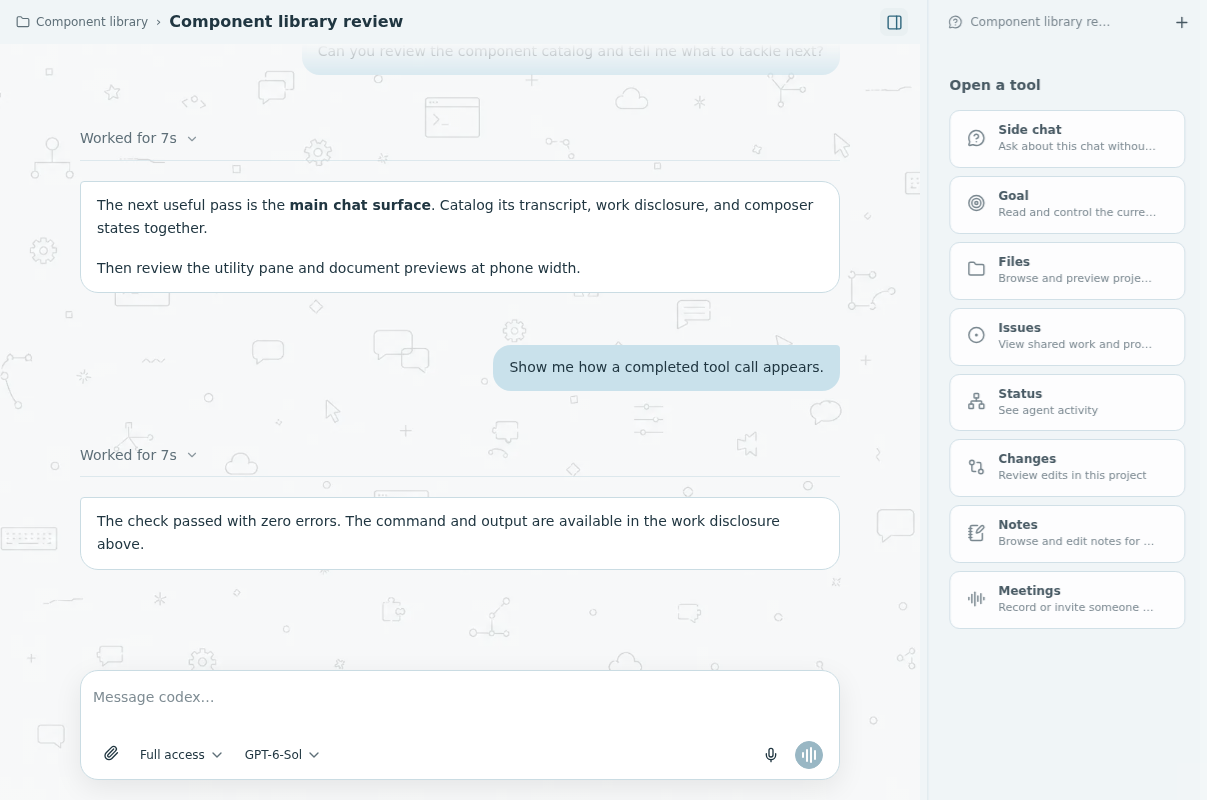
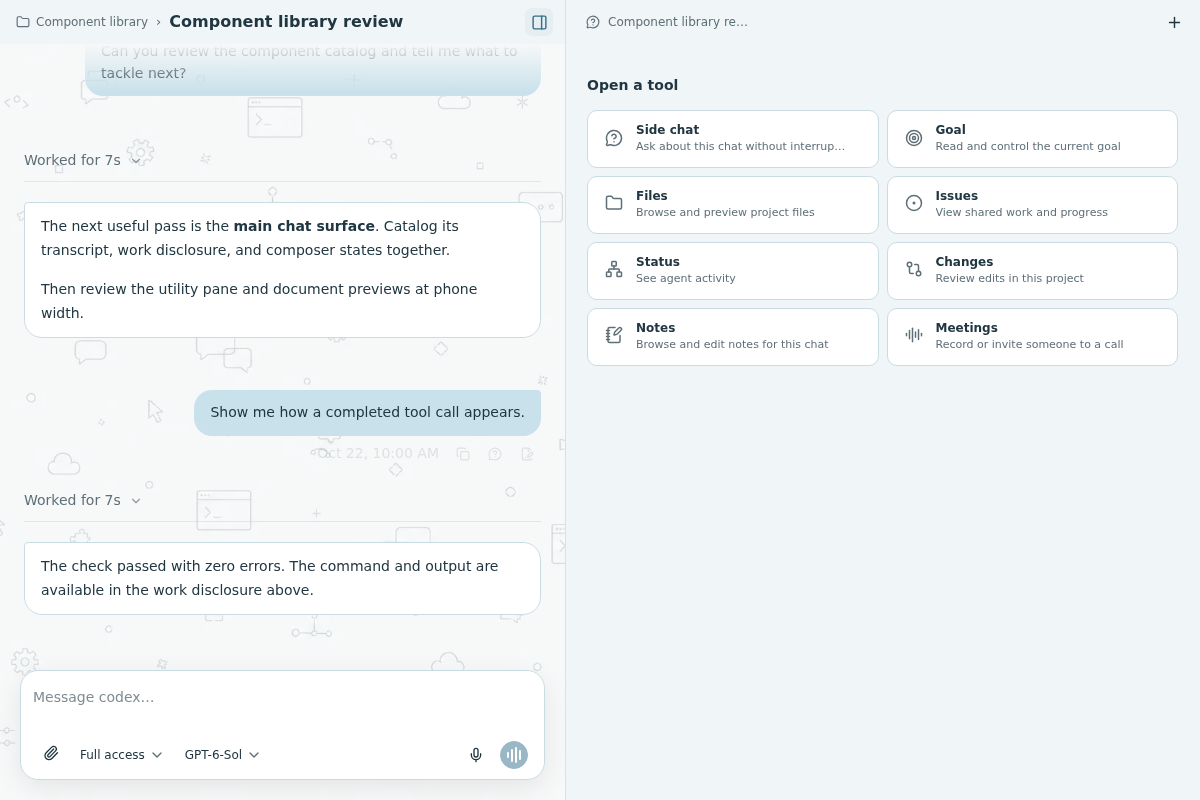
Make pane seams exactly one pixel wide

diff --git a/web/src/ui/pane-divider.stories.ts b/web/src/ui/pane-divider.stories.ts
@@ -8,20 +8,20 @@ const meta = {
   parameters: { layout: 'fullscreen', fullBleed: true },
   render: () => html`
     <div style="display:grid;gap:24px;padding:32px;background:var(--ui-surface-base);color:var(--ui-text);font:var(--ui-text-md) var(--ui-font-sans)">
-      <div>Every pane seam has a single pixel line. The sidebar keeps its quiet gutter; chat and utility rails have transparent resize targets.</div>
-      <div style="display:grid;grid-template-columns:32% var(--ui-pane-divider-track-width) minmax(0,1fr);height:100px;border:1px solid var(--ui-border)">
+      <div>Every pane seam occupies one pixel, with a transparent resize target extending to either side.</div>
+      <div style="display:grid;grid-template-columns:32% var(--ui-divider-thickness) minmax(0,1fr);height:100px;border:1px solid var(--ui-border)">
         <section style="background:var(--ui-surface-raised);padding:16px">Sidebar</section>
-        <mux-ui-pane-divider compact role="separator" aria-label="Resize sidebar" aria-orientation="vertical"></mux-ui-pane-divider>
+        <mux-ui-pane-divider role="separator" aria-label="Resize sidebar" aria-orientation="vertical"></mux-ui-pane-divider>
         <section style="background:var(--ui-surface-base);padding:16px">Main pane</section>
       </div>
       <div style="display:flex;height:220px;border:1px solid var(--ui-border)">
         <section style="flex:1;background:var(--ui-surface-base);padding:16px">Chat pane</section>
-        <mux-ui-pane-divider role="separator" aria-label="Resize utility pane" aria-orientation="vertical" tabindex="0" style="margin-inline:-5px;z-index:1"></mux-ui-pane-divider>
+        <mux-ui-pane-divider role="separator" aria-label="Resize utility pane" aria-orientation="vertical" tabindex="0"></mux-ui-pane-divider>
         <section style="flex:1;background:var(--ui-surface-raised);padding:16px">Utility pane</section>
       </div>
       <div style="display:grid;grid-template-columns:minmax(0,1fr) var(--ui-divider-thickness) 32%;height:220px;border:1px solid var(--ui-border)">
         <section style="background:var(--ui-surface-base);padding:16px">File viewer</section>
-        <mux-ui-pane-divider role="separator" aria-label="Resize file explorer" aria-orientation="vertical" tabindex="0" style="margin-left:calc((var(--ui-divider-thickness) - var(--ui-chat-resize-handle-width)) / 2);z-index:1"></mux-ui-pane-divider>
+        <mux-ui-pane-divider role="separator" aria-label="Resize file explorer" aria-orientation="vertical" tabindex="0"></mux-ui-pane-divider>
         <section style="background:var(--ui-surface-base);padding:16px">Explorer rail</section>
       </div>
       <div style="display:grid;grid-template-columns:minmax(0,1fr) var(--ui-divider-thickness) 32%;height:100px;border:1px solid var(--ui-border)">

diff --git a/web/src/components/mux-sdk-chat.ts b/web/src/components/mux-sdk-chat.ts
@@ -534,7 +534,7 @@ export class MuxSDKChat extends LitElement {
     @media (prefers-reduced-motion:reduce) { .send-icon { animation:none; } }
     .status { color:color-mix(in srgb,var(--ui-warning) 70%,var(--ui-text)); font-size:var(--ui-content-font-size); }
     .drawer { position:relative; z-index:var(--ui-z-drawer); flex:none; width:var(--utility-width); min-width:0; height:calc(100% + var(--ui-nav-height)); margin-top:calc(-1 * var(--ui-nav-height)); background:var(--ui-surface-raised); animation:drawer-in .16s ease-out; }
-    .drawer-resizer { position:absolute; z-index:var(--ui-z-local); left:calc(-.5 * var(--ui-chat-resize-handle-width)); top:0; bottom:0; }
+    .drawer-resizer { position:absolute; left:0; top:0; bottom:0; }
     @keyframes drawer-in { from { transform:translateX(18px); opacity:.55; } to { transform:translateX(0); opacity:1; } }
     @media(max-width:767.98px) { .chat-screen-header,.chat-screen-header.with-utility { width:100%; --ui-screen-header-padding-right:var(--ui-space-5); } }
     @media(max-width:767.98px) { .body { padding:var(--ui-space-8) var(--ui-space-6) var(--ui-space-9); } .composer-wrap { padding:0 var(--ui-space-5) var(--ui-space-5); } .drawer,.layout.preview-focused .drawer { box-sizing:border-box; display:flex; flex-direction:column; position:fixed; inset:0; z-index:var(--ui-z-sheet); width:100vw; height:100dvh; margin:0; border:0; box-shadow:var(--ui-shadow-side-strong); padding-top:env(safe-area-inset-top, 0px); } .drawer mux-sdk-utility { flex:1; min-height:0; height:auto; } .drawer-resizer { display:none; } .topbar-actions { gap:var(--ui-space-1); } .chat-screen-header .mobile-nav, .chat-screen-header .chat-menu-trigger, .chat-screen-header .pane-controls mux-ui-button { width:var(--ui-control-lg); height:var(--ui-control-lg); } }

diff --git a/web/src/ui/pane-divider.ts b/web/src/ui/pane-divider.ts
@@ -9,8 +9,9 @@ export class MuxUIPaneDivider extends LitElement {
       box-sizing: border-box;
       display: block;
       position: relative;
+      z-index: var(--ui-z-drag-overlay);
       flex: none;
-      width: var(--ui-chat-resize-handle-width);
+      width: var(--ui-divider-thickness);
       min-width: 0;
       height: 100%;
       background: transparent;
@@ -19,25 +20,29 @@ export class MuxUIPaneDivider extends LitElement {
       -webkit-app-region: no-drag;
       app-region: no-drag;
     }
+    :host::before {
+      content: '';
+      position: absolute;
+      top: 0;
+      bottom: 0;
+      left: calc((var(--ui-divider-thickness) - var(--ui-chat-resize-handle-width)) / 2);
+      width: var(--ui-chat-resize-handle-width);
+      background: transparent;
+    }
     :host::after {
       content: '';
       position: absolute;
       top: 0;
       bottom: 0;
-      left: calc(50% - var(--ui-divider-thickness) / 2);
+      left: 0;
       width: var(--ui-divider-thickness);
       background: var(--ui-shell-divider);
       pointer-events: none;
     }
     :host(:hover)::after, :host(:focus-visible)::after { background: var(--ui-accent); }
     :host(:focus-visible) { outline: none; }
-    :host([compact]) {
-      width: var(--ui-pane-divider-track-width);
-      background: var(--ui-surface-raised);
-    }
-    :host([compact])::after { left: auto; right: 0; }
-    :host([fixed]) { width: var(--ui-divider-thickness); cursor: default; touch-action: auto; }
-    :host([fixed])::after { left: 0; }
+    :host([fixed]) { cursor: default; touch-action: auto; }
+    :host([fixed])::before { display: none; }
   `;
 
   override render() { return html``; }

diff --git a/web/src/components/mux-sdk-utility.ts b/web/src/components/mux-sdk-utility.ts
@@ -1390,7 +1390,7 @@ export class MuxSDKUtility extends LitElement {
     mux-sdk-utility .sandbox-note { display:flex; align-items:center; gap:var(--ui-space-4); padding:var(--ui-space-4) var(--ui-space-5); border-bottom:1px solid var(--ui-border); color:var(--ui-text-muted); font-size:var(--ui-text-xs); }
     mux-sdk-utility .document-frame { display:block; box-sizing:border-box; flex:1; width:100%; min-height:var(--ui-utility-document-frame-min-height); border:0; background:var(--ui-document-surface); }
     mux-sdk-utility mux-sdk-pdf-preview { display:block; flex:1; min-height:0; }
-    mux-sdk-utility .vertical-resizer { position:relative; z-index:var(--ui-z-local); margin-left:calc((var(--ui-utility-rail-resizer-width) - var(--ui-chat-resize-handle-width)) / 2); }
+    mux-sdk-utility .vertical-resizer { position:relative; }
     mux-sdk-utility .changes-list { grid-column:3; grid-row:1; min-width:0; min-height:0; overflow:auto; background:var(--ui-surface-base); }
     mux-sdk-utility .changes-panel > .vertical-resizer { grid-column:2; grid-row:1; }
     mux-sdk-utility .changes-list > header { display:flex; justify-content:space-between; align-items:center; height:var(--ui-utility-section-header-height); padding:0 var(--ui-space-4) 0 var(--ui-space-6); color:var(--ui-text-muted); font:600 var(--ui-text-xs) var(--ui-font-sans); letter-spacing:.1em; }

diff --git a/web/src/app.ts b/web/src/app.ts
@@ -86,7 +86,7 @@ type LauncherAction = 'settings' | 'shortcuts' | 'about' | 'reconnect' | 'new-wo
  *  `Split(...)` in `_initSplit()` below and as the half-gutter compensation
  *  in `widthPxToSplitPercent()` — defined once so the two can never drift
  *  out of sync if the gutter size is ever changed. */
-const SIDEBAR_GUTTER_SIZE = 4;
+const SIDEBAR_GUTTER_SIZE = 1;
 /** Small positive bias (px) that makes Split's percentage renderer round to
  *  the requested whole pixel instead of occasionally landing 1/64px short. */
 const SIDEBAR_SUBPIXEL_ROUNDING_BIAS = 0.001;
@@ -1312,10 +1312,9 @@ export class MuxApp extends LitElement {
       // hand-rolled handler clamped only at the exact boundaries, so disable
       // snapping to retain smooth, pointer-tracking behavior until then.
       snapOffset: 0,
-      gutterSize: SIDEBAR_GUTTER_SIZE,        // matches removed .resize-handle width
+      gutterSize: SIDEBAR_GUTTER_SIZE,        // one-pixel layout seam; the shared control supplies the hit target
       gutter: () => {
         const g = document.createElement('mux-ui-pane-divider');
-        g.setAttribute('compact', '');
         g.setAttribute('aria-label', 'Resize sidebar');
         g.setAttribute('role', 'separator');
         g.setAttribute('aria-orientation', 'vertical');

diff --git a/web/src/ui/tokens.css b/web/src/ui/tokens.css
@@ -60,7 +60,6 @@
   --ui-status-dot-size: var(--ui-space-3);
   --ui-status-dot-lg: var(--ui-space-4);
   --ui-divider-thickness: var(--ui-space-px);
-  --ui-pane-divider-track-width: var(--ui-space-2);
   --ui-progress-height: 10px;
   --ui-progress-compact-height: 5px;
   --ui-switch-track-width: 32px;
